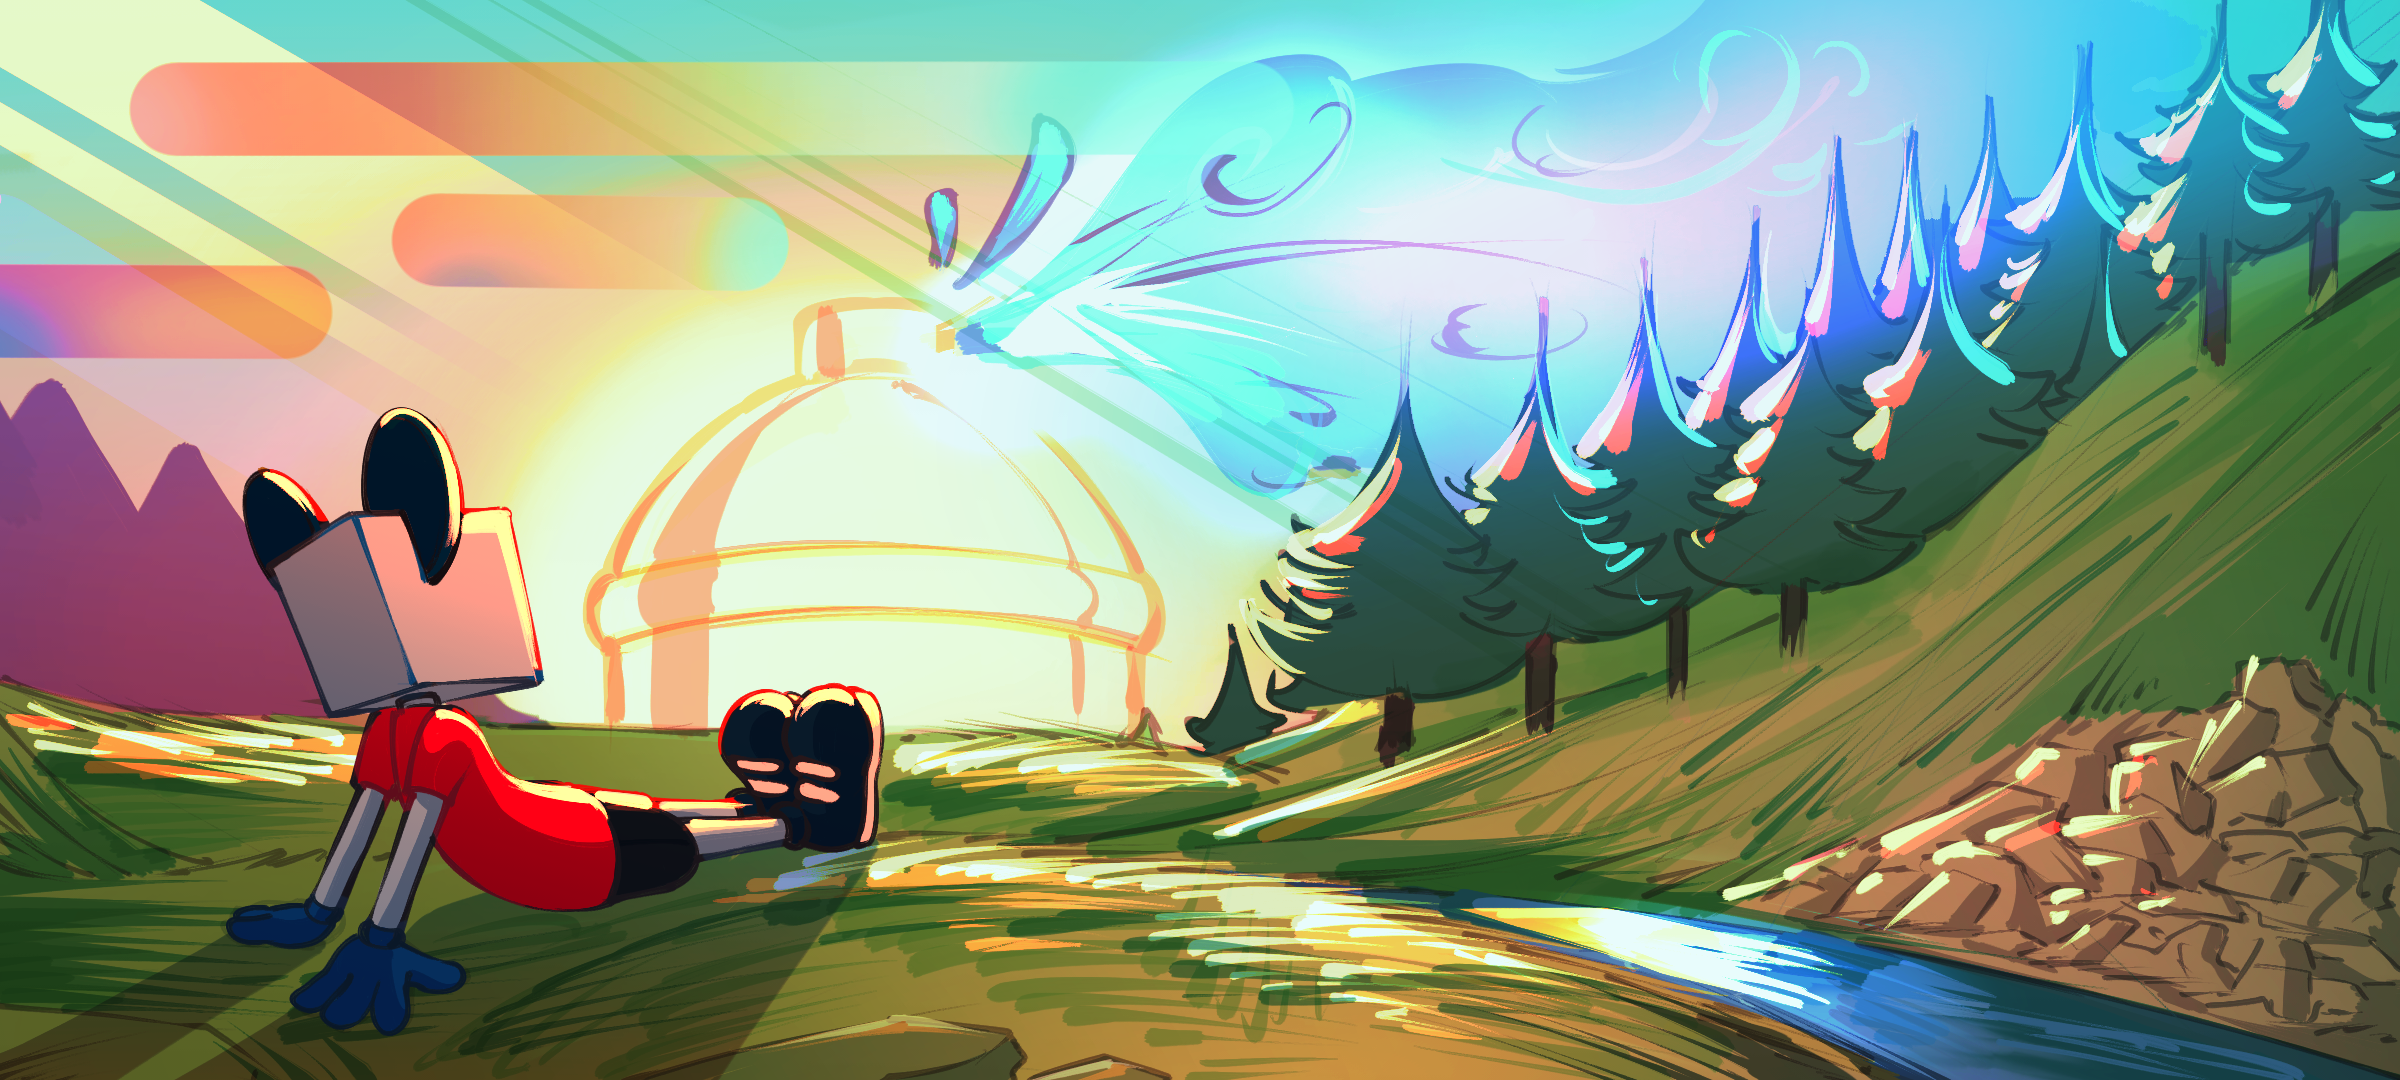
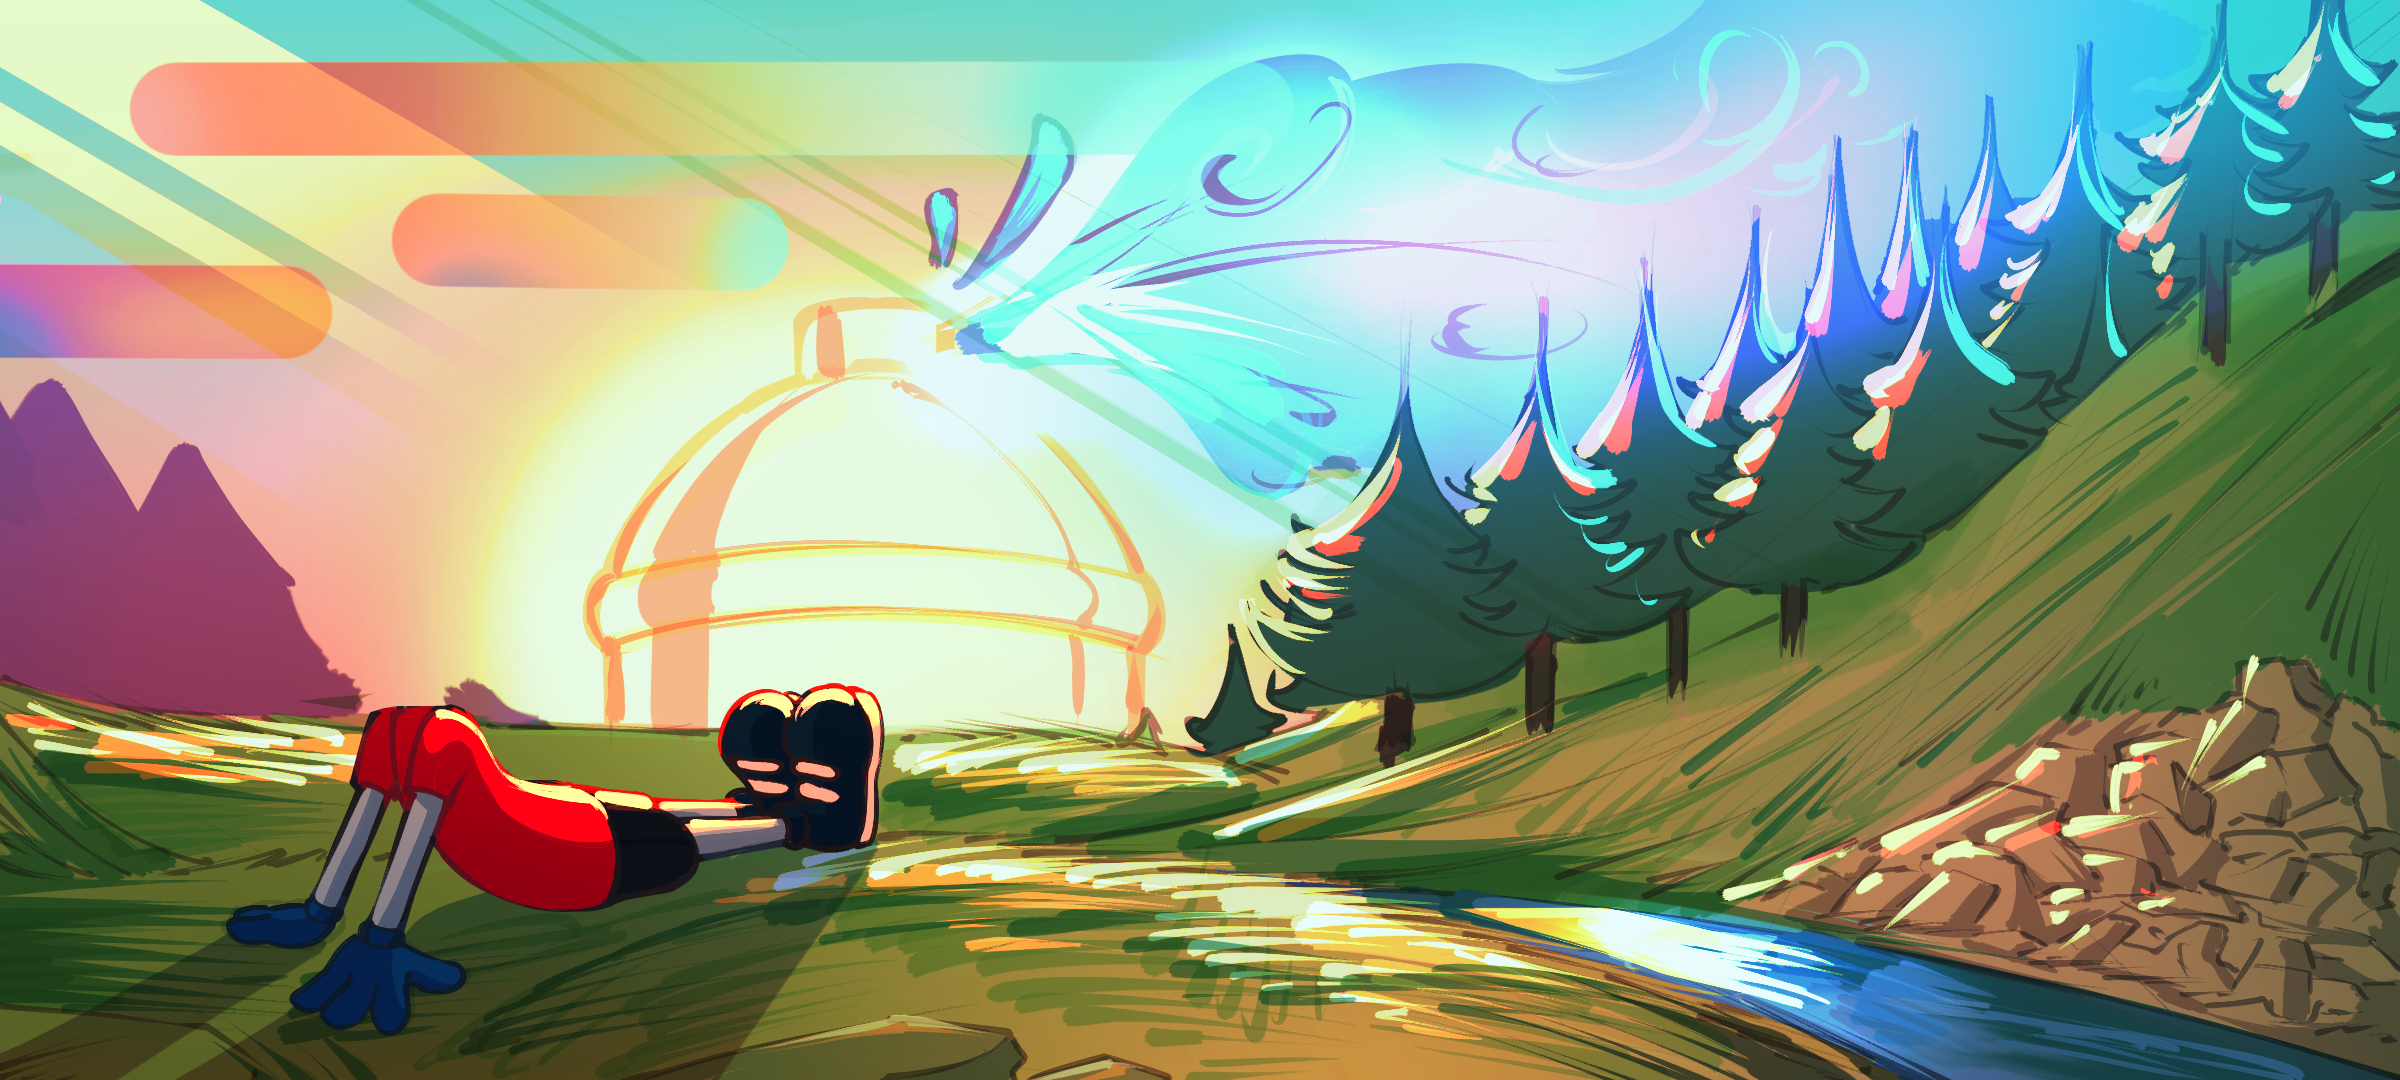
SYFT-920: scene 9 transitions refactored

Changed region(s): [[0.0938, 0.3667, 0.25, 0.6722]]

diff --git a/components/Scenes/Scene-9/index.module.scss b/components/Scenes/Scene-9/index.module.scss
@@ -17,9 +17,18 @@
   .backdrop {
     position: absolute;
     @include fullSize;
-    @include bgCover;
+    background-position: bottom left;
     background-image: url('/assets/images/scene9/1.png');
     animation-name: toggleBg;
+    animation-iteration-count: infinite;
+    animation-duration: 3s;
+  }
+
+  img {
+    position: absolute;
+    bottom: 362px;
+    left: 242px;
+    animation-name: toggleHead;
     animation-iteration-count: infinite;
     animation-duration: 3s;
   }
@@ -34,5 +43,16 @@
   }
   100% {
     background-image: url('/assets/images/scene9/1.png');
+  }
+}
+@keyframes toggleHead {
+  0% {
+    transform: none;
+  }
+  50% {
+    transform: rotate(6deg) translateX(15px);
+  }
+  100% {
+    transform: none;
   }
 }

diff --git a/components/Scenes/Scene-9/index.js b/components/Scenes/Scene-9/index.js
@@ -7,6 +7,7 @@ const Scene9 = ({ transitionData }) => (
   <MotionDiv transitionData={transitionData} noLeaving>
     <div className={styles.section}>
       <div className={styles.backdrop} />
+      <img src="/assets/images/scene9/3.png" alt="" />
       <Text maxW="575" bottom="22%" right="10%" withBg visible>
         At the end of each school day, Scrappy would walk home from class.
         Carrying with him, all that pent up anxiety about being teased.
